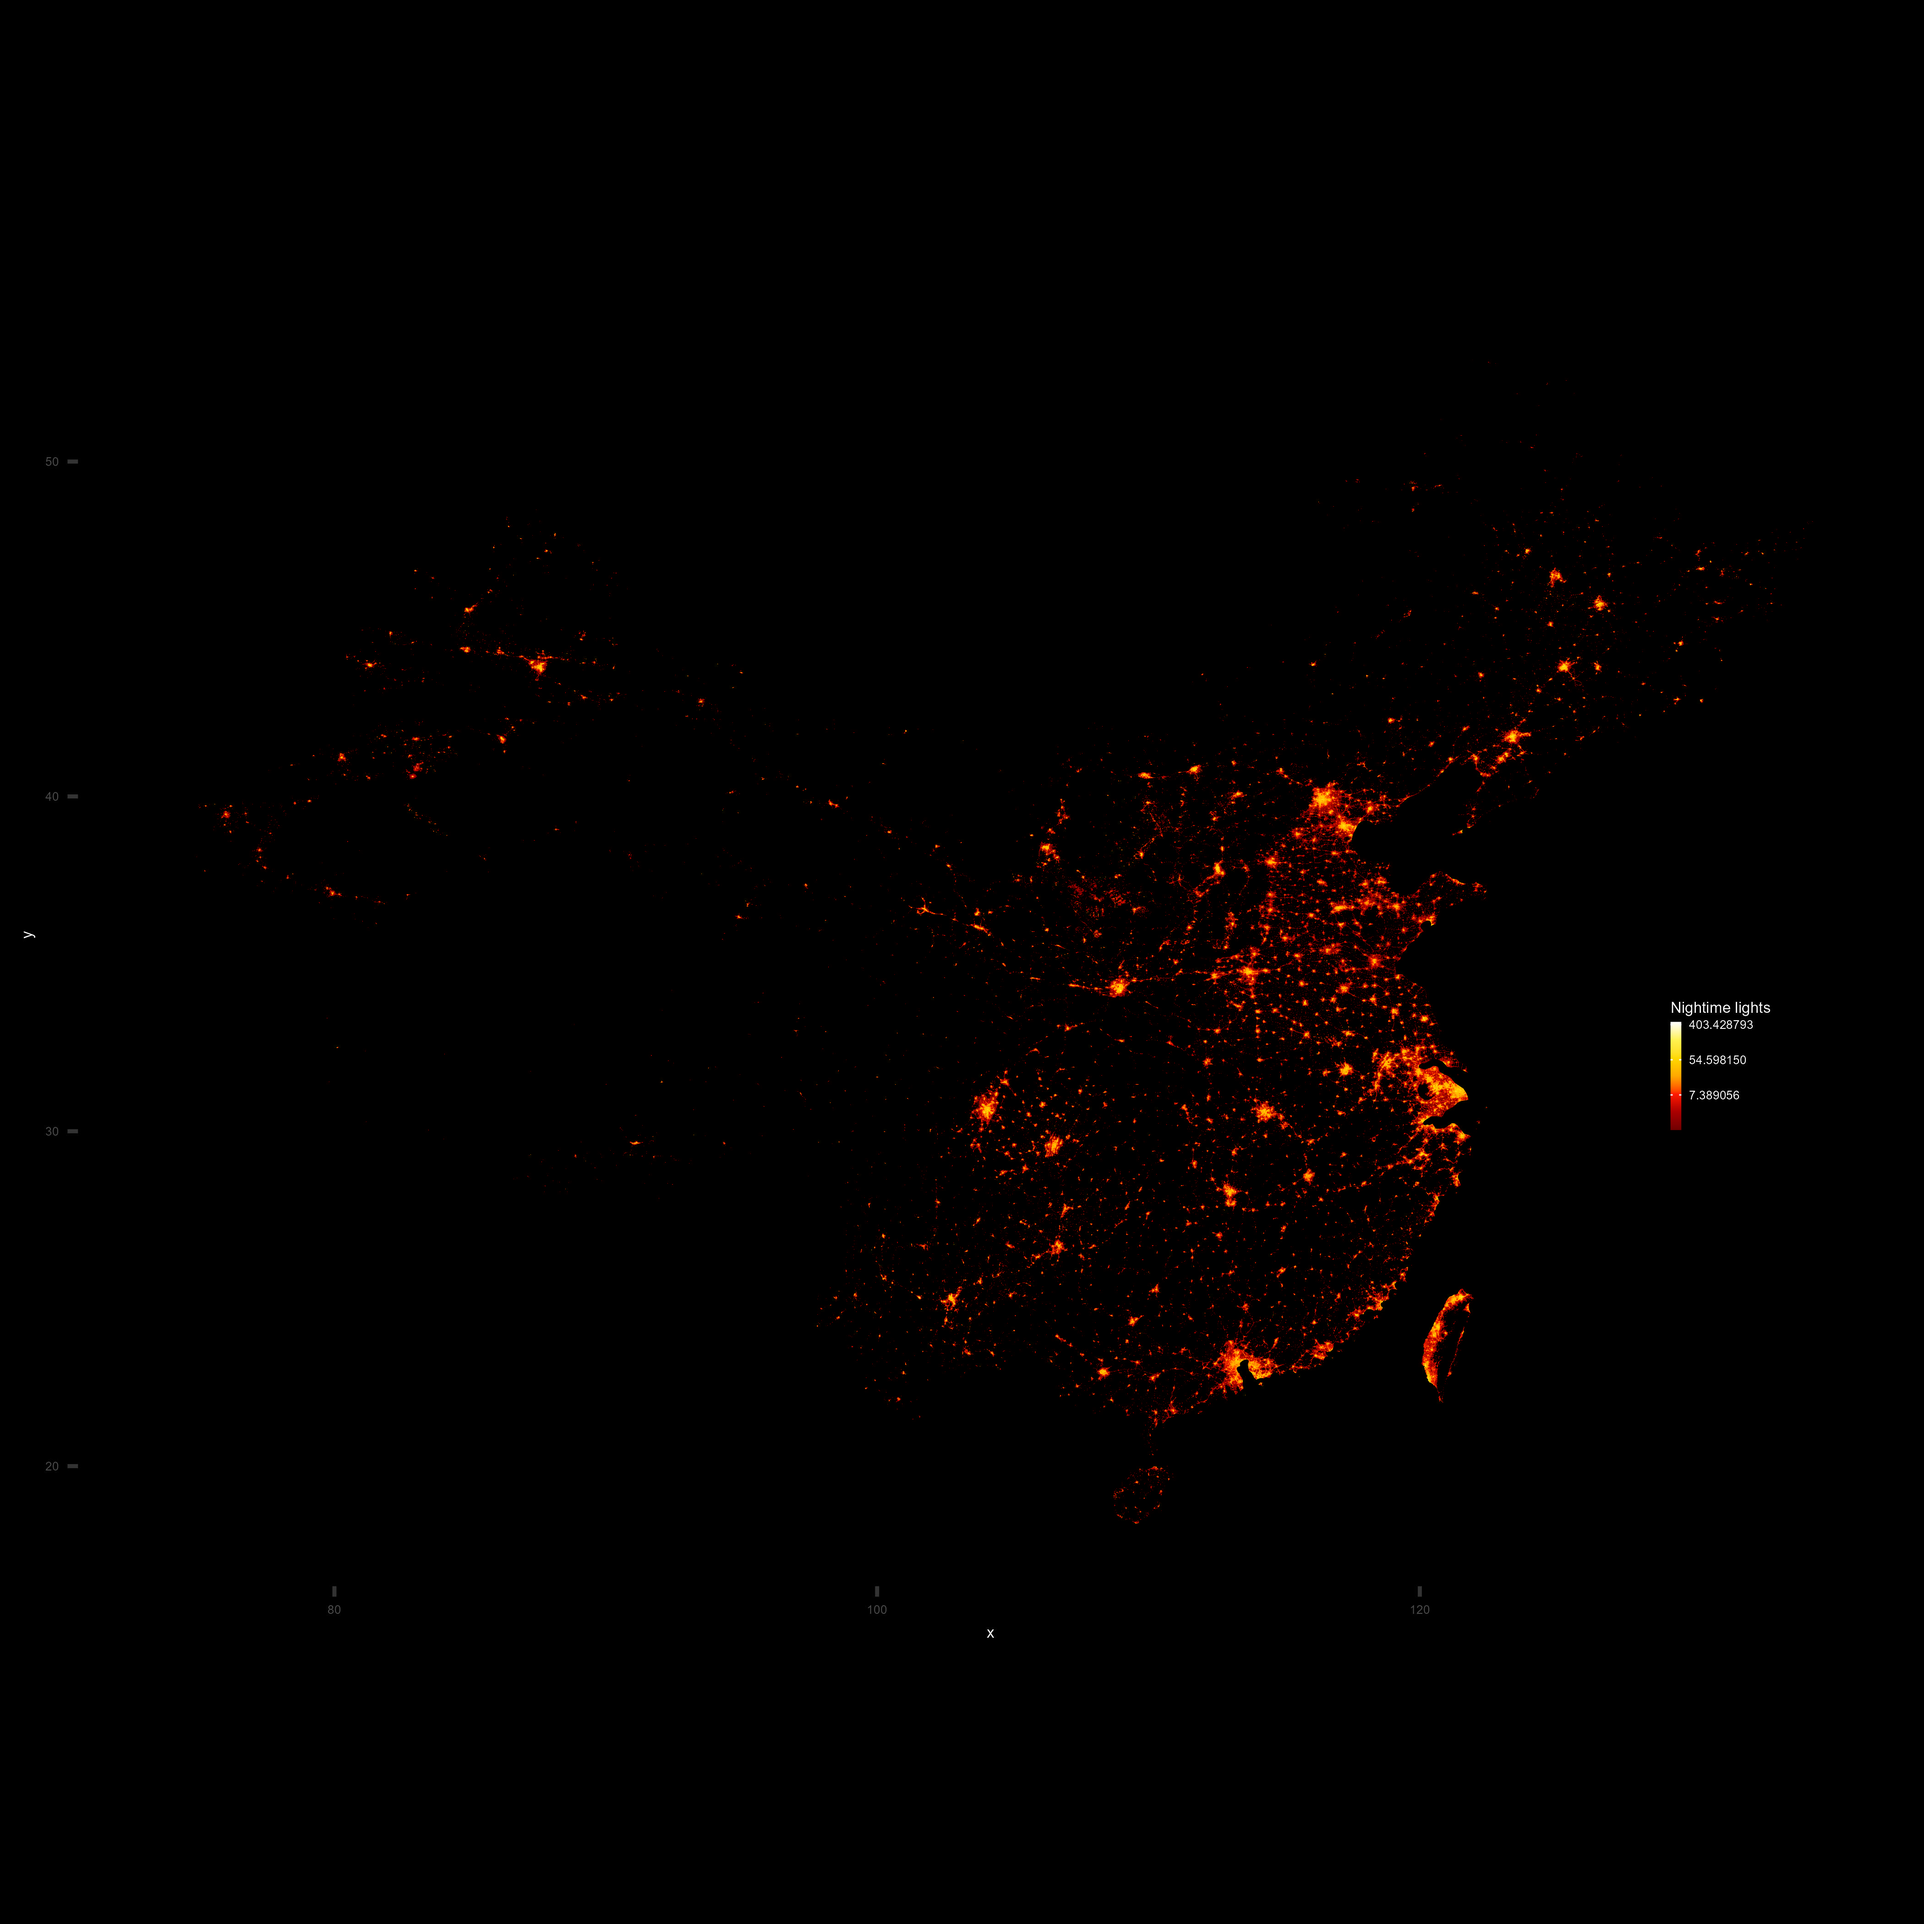
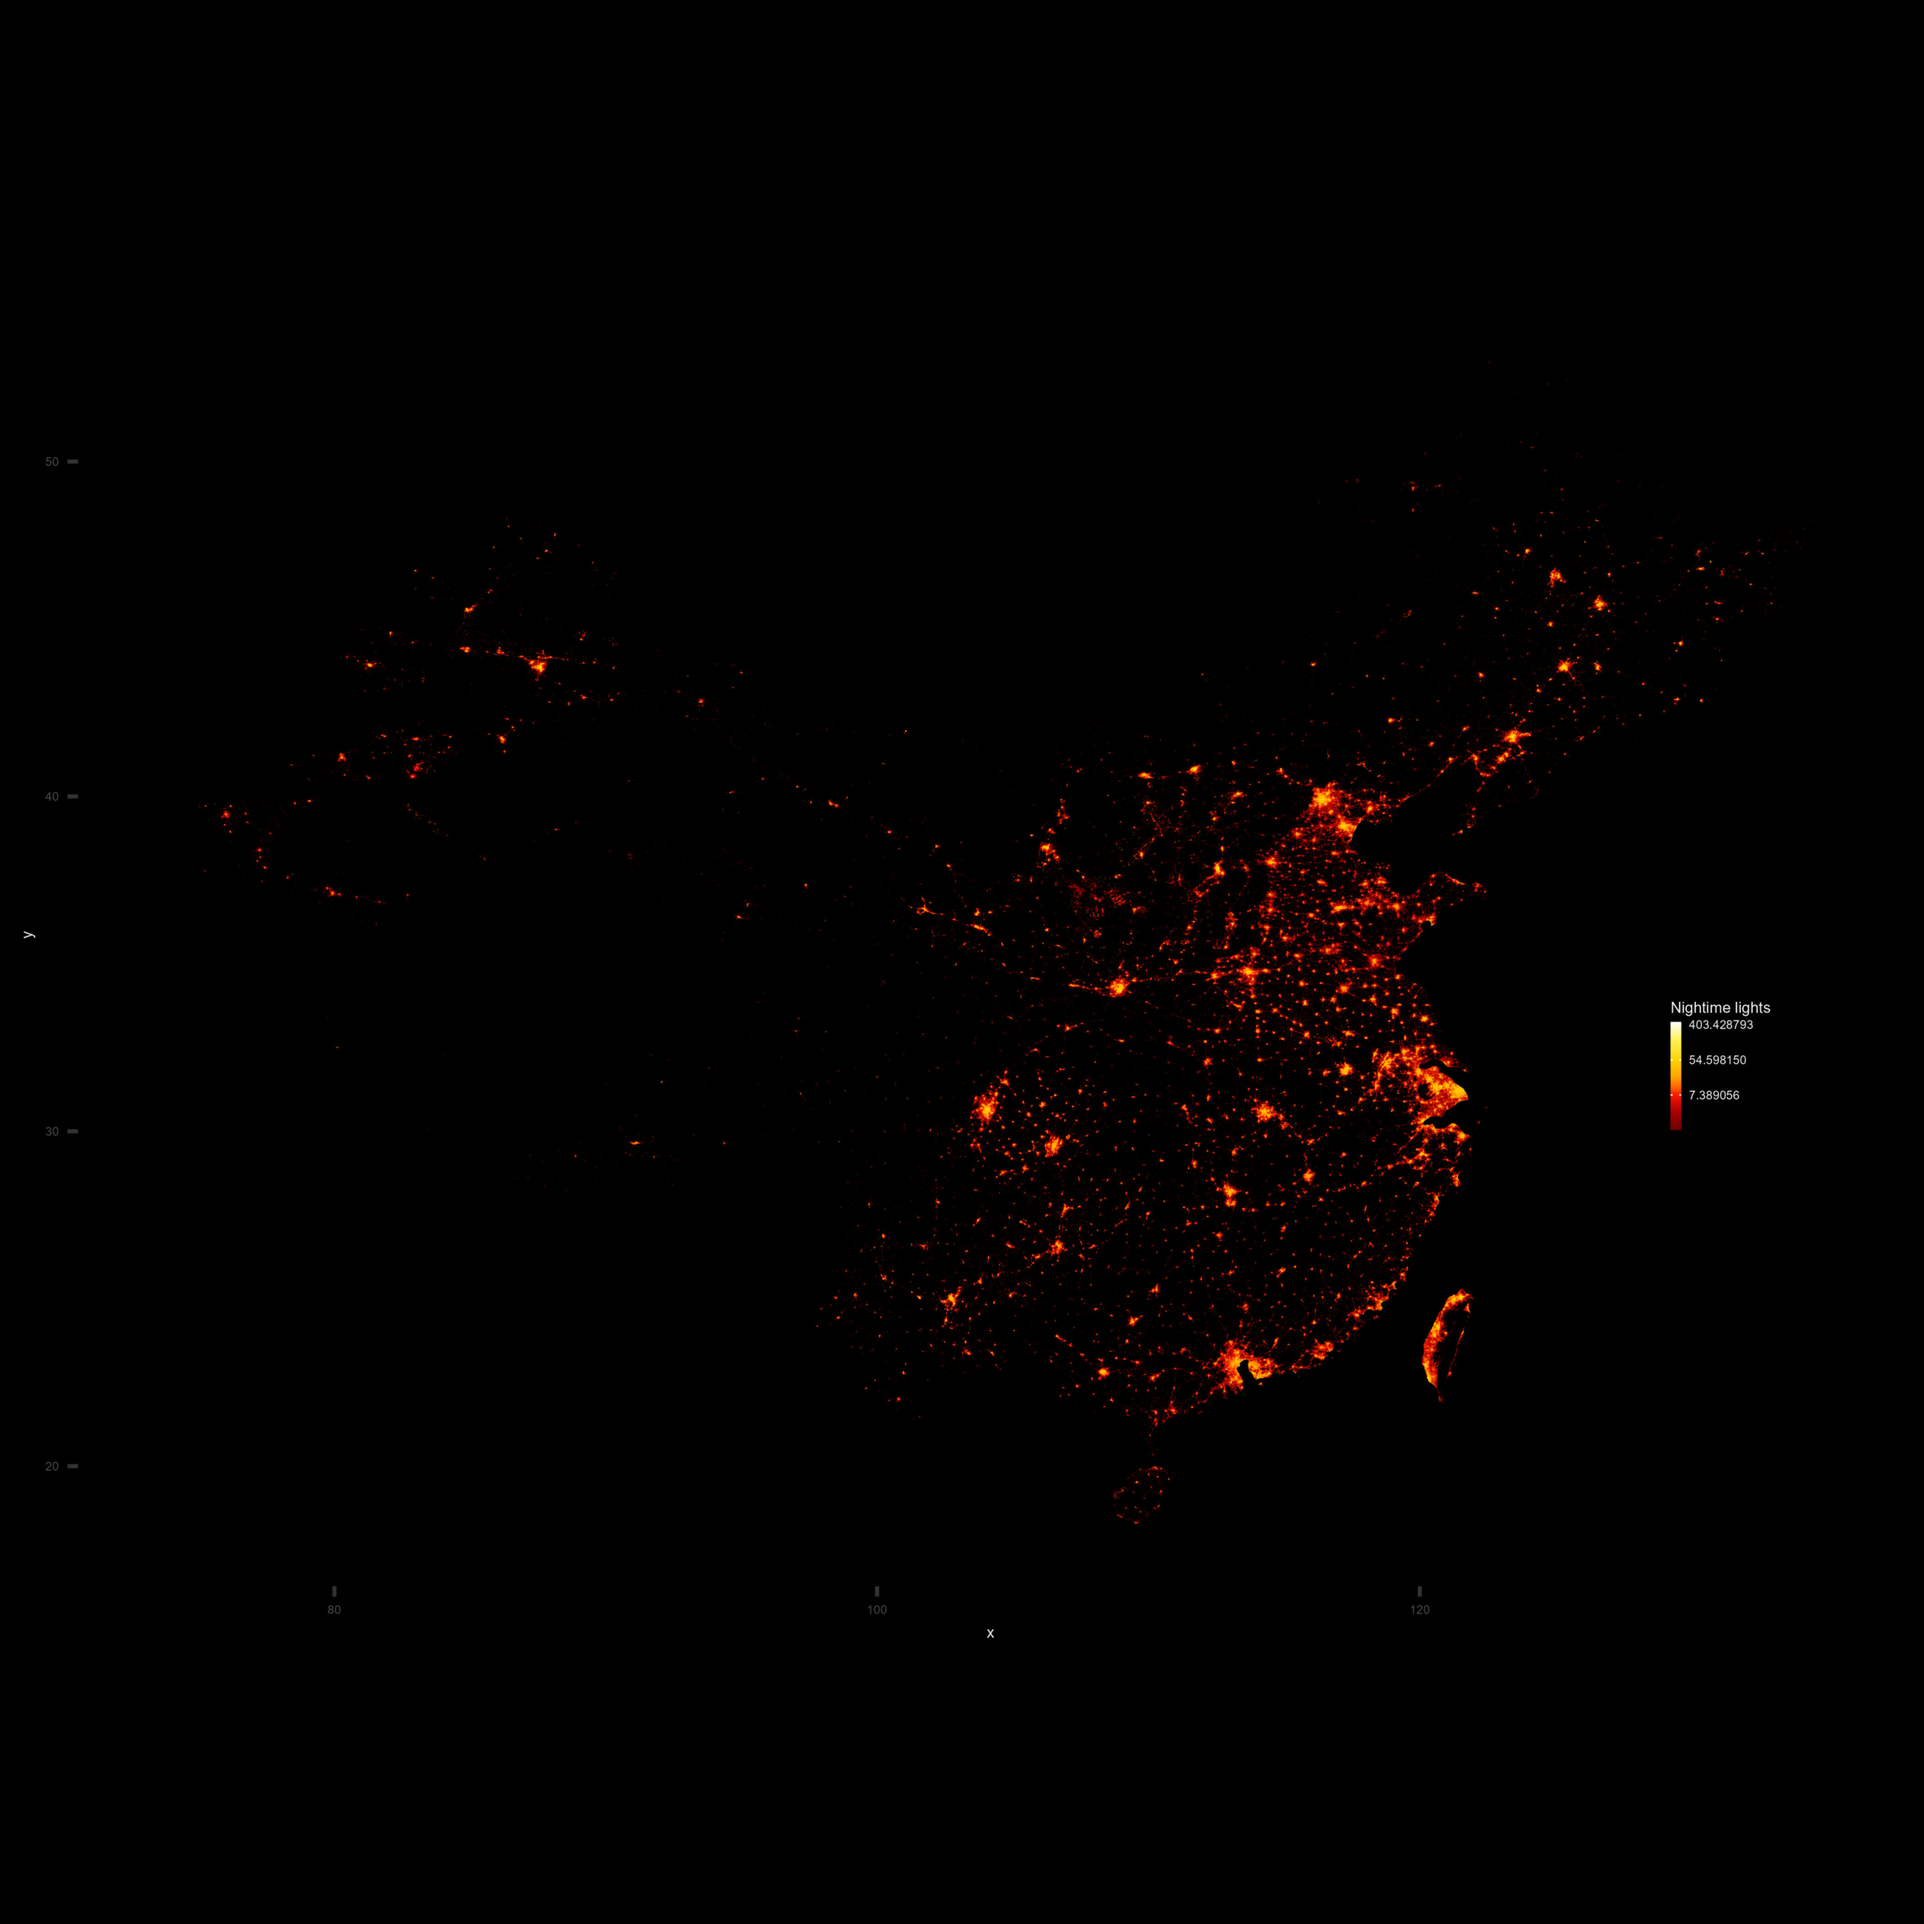
perf: optimize CSS rendering, JS loading, and image sizes

diff --git a/index.html b/index.html
@@ -17,8 +17,11 @@
 
 <link rel="preconnect" href="https://fonts.googleapis.com">
 <link rel="preconnect" href="https://fonts.gstatic.com" crossorigin>
+<link rel="preload" href="img/header.jpg" as="image" fetchpriority="high">
+<link rel="preload" href="assets/style.css" as="style">
 <link href="https://fonts.googleapis.com/css2?family=Newsreader:ital,wght@0,400;0,500;1,500&family=Inter:wght@400;500;600&family=IBM+Plex+Mono:wght@400;500&display=swap" rel="stylesheet">
 <link rel="stylesheet" href="assets/style.css">
+<script src="assets/main.js" defer></script>
 </head>
 <body>
 
@@ -68,12 +71,11 @@
 
     <div class="index-list">
 
-      <a class="index-row" href="https://gcwillis14-coder.github.io/gigradar/" target="_blank" rel="noopener">
-        <span class="index-row__tag">Full-Stack GIS · Spatial AI</span>
+      <div class="index-row">
         <span class="index-row__body">
           <h3>GigRadar — Live Music Radar &amp; Venue Intelligence</h3>
           <p>A spatial discovery engine monitoring 100+ London grassroots venues. Integrates automated ticketing ingestion, semantic deduplication via vector embeddings, and local vision extraction for promotional event media.</p>
-        </span>
+          <p style="margin-top:0.5rem; display:flex; gap:1.5rem; font-weight:500;">
         <span class="index-row__meta">Python · FastAPI · Ollama · pgvector</span>
         <span class="index-row__preview index-row__preview--mark" aria-hidden="true">
           <svg viewBox="0 0 64 64" fill="none" stroke="currentColor" stroke-width="1.4" style="color:var(--amber)">
@@ -84,9 +86,8 @@
             <circle cx="48" cy="16" r="3" fill="var(--amber)"/>
           </svg>
         </span>
-      </a>
+      </div>
 
-      <a class="index-row" href="portfolio/R/Step1.html">
         <span class="index-row__tag">Spatial Econometrics · Transit</span>
         <span class="index-row__body">
           <h3>House prices &amp; London rail access</h3>
@@ -198,6 +199,5 @@
   </div>
 </footer>
 
-<script src="assets/main.js"></script>
 </body>
 </html>

diff --git a/assets/style.css b/assets/style.css
@@ -155,8 +155,7 @@ a:focus-visible, button:focus-visible, [tabindex]:focus-visible{
 /* -------------------------------------------------------------------- */
 /* section rhythm                                                        */
 /* -------------------------------------------------------------------- */
-.section{ padding: 88px 0; border-bottom: var(--hairline-w) solid var(--hair); }
-.section--tight{ padding: 56px 0; }
+.section{ padding: 88px 0; border-bottom: var(--hairline-w) solid var(--hair); content-visibility: auto; contain-intrinsic-size: auto 800px; }
 .section-head{ display:flex; align-items:flex-end; justify-content:space-between; gap: 24px; margin-bottom: 40px; flex-wrap: wrap; }
 .section-head h2{ font-family: var(--serif); font-weight:500; font-size: clamp(26px,3vw,34px); color: var(--bone); }
 .section-head__link{ font-family: var(--mono); font-size:12px; letter-spacing:.08em; text-transform:uppercase; color: var(--ember); white-space:nowrap; }
